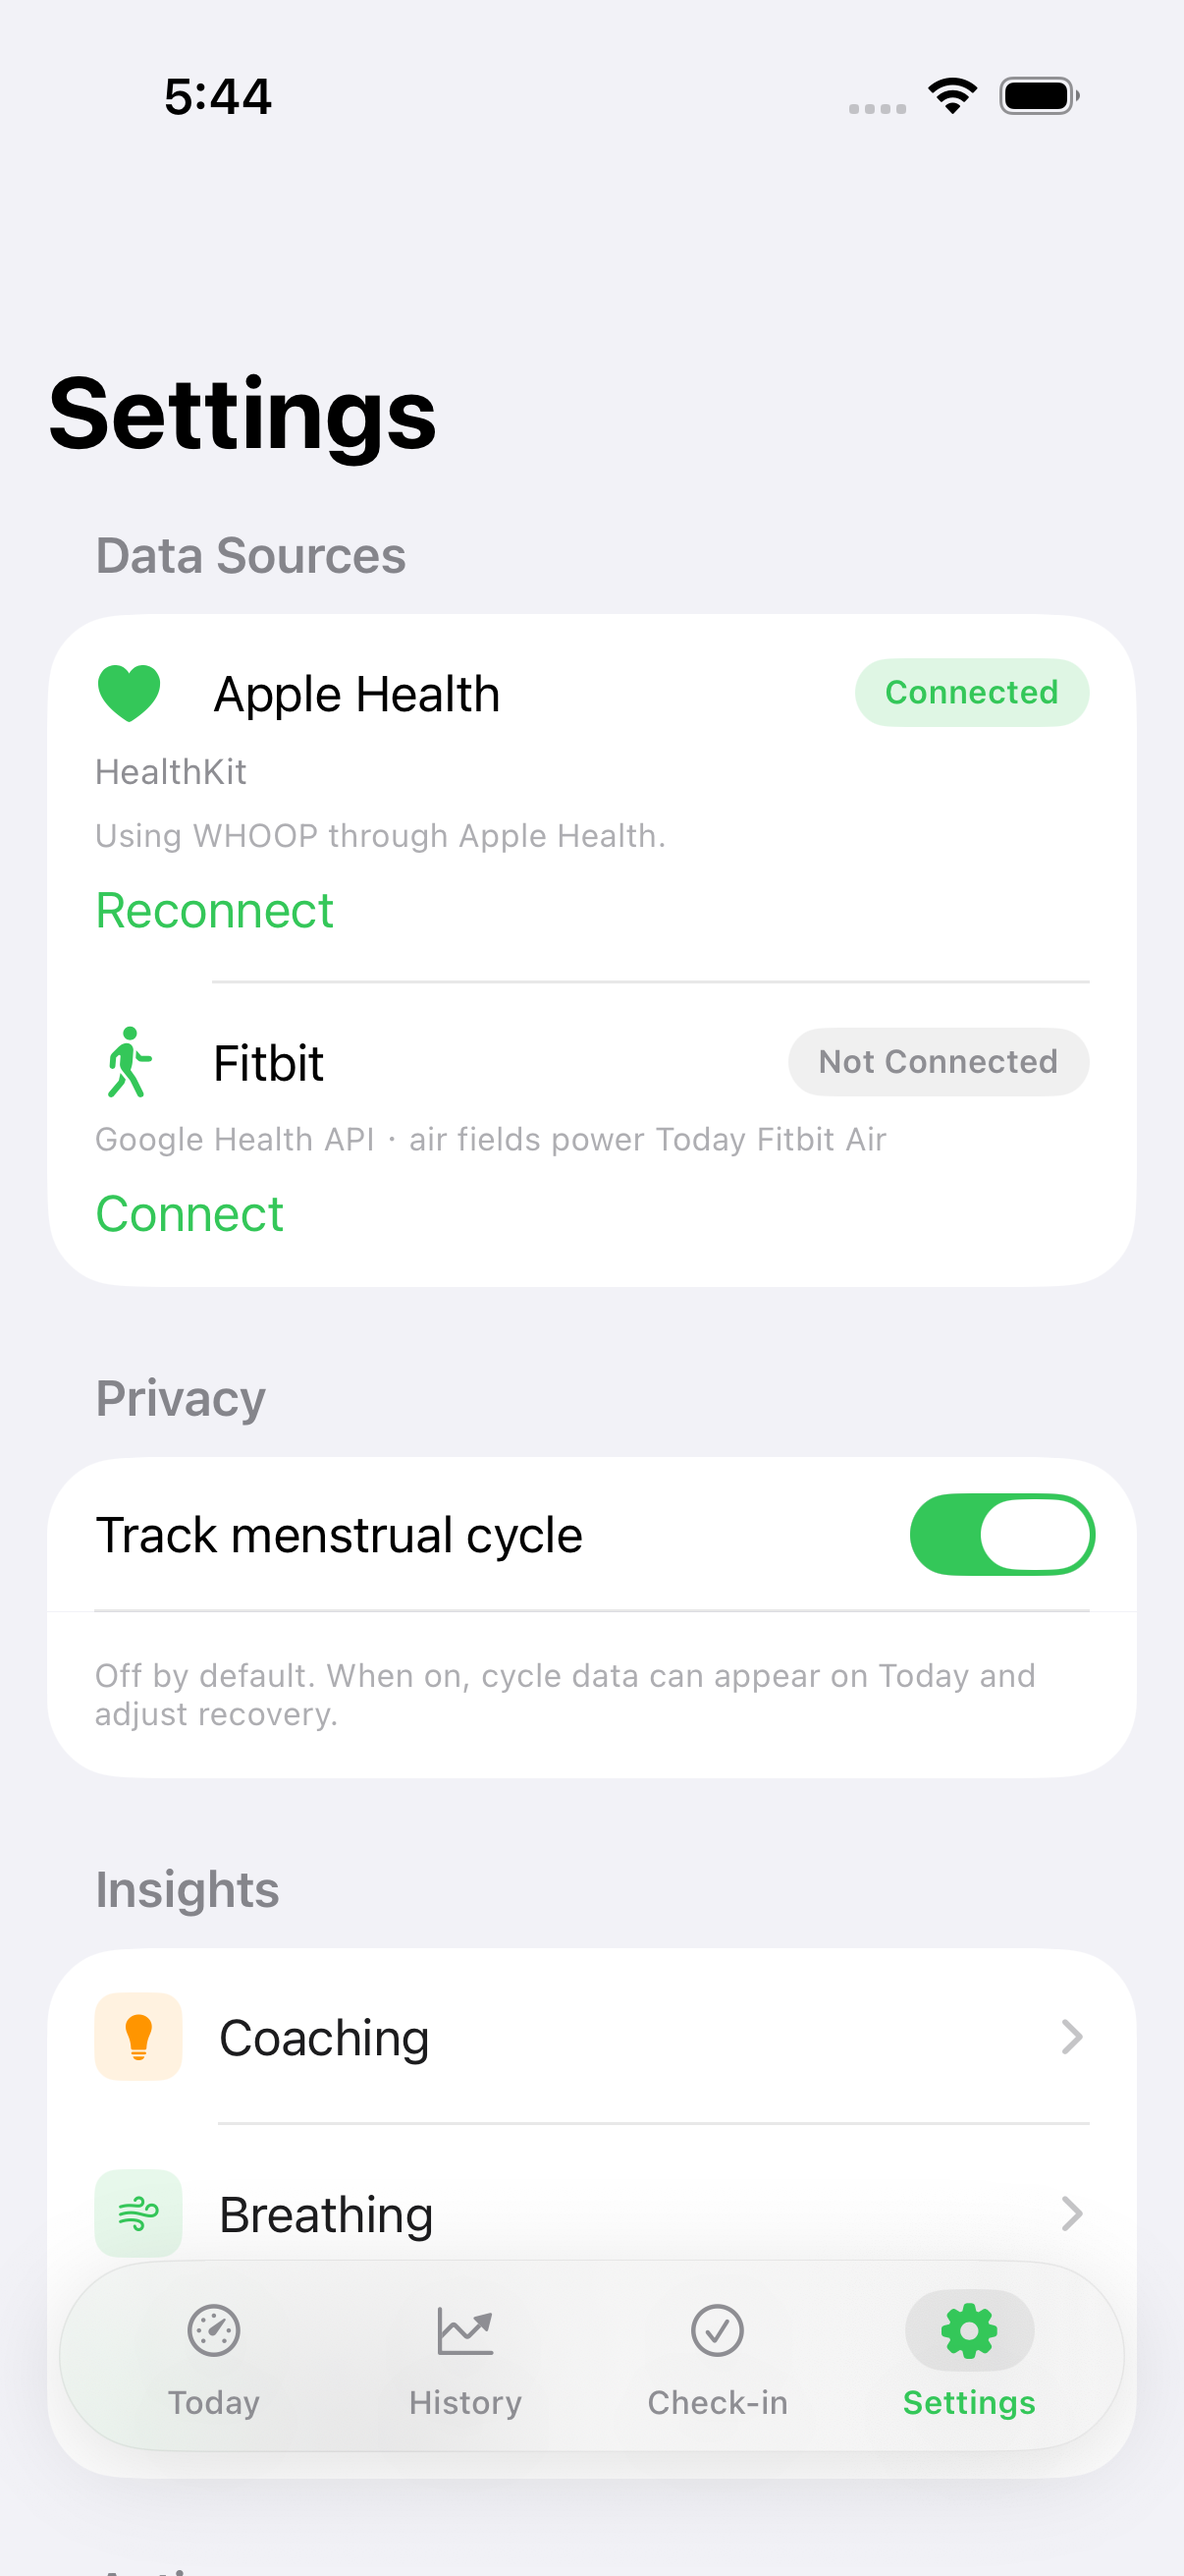
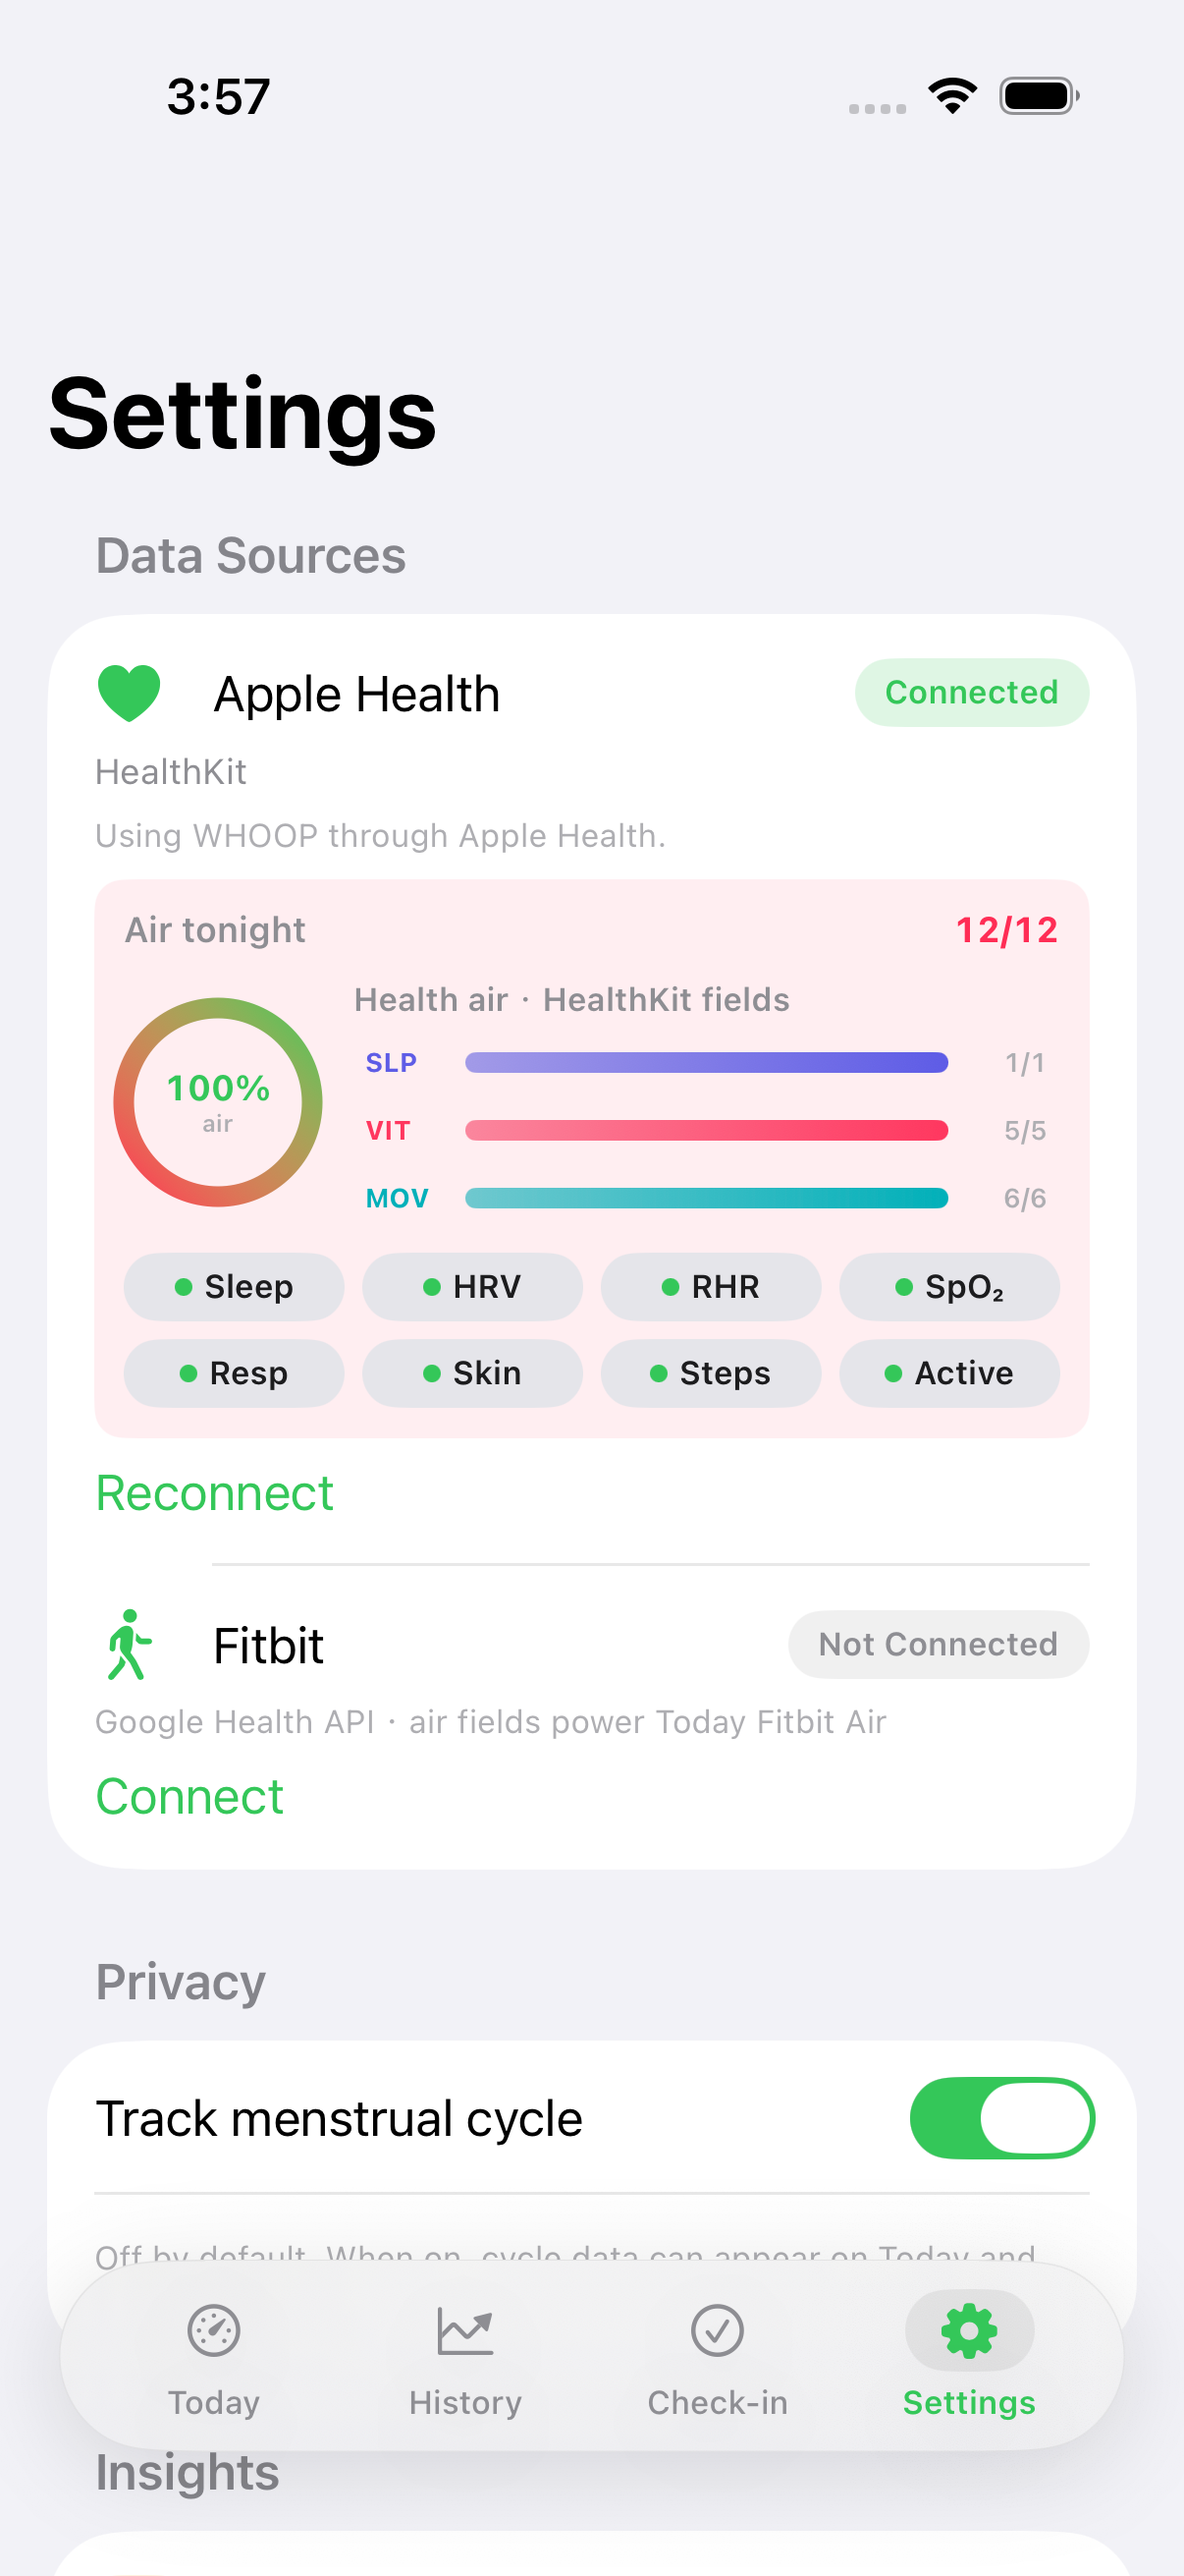
Honest #638: Settings Health Air density ring
Fitbit #625 Settings parity for Apple Health — pink accent,
settings.health.air{,.ring,.chips}, interactive category focus.

diff --git a/ReadinessTracker/Views/WhoopFeatures/FitbitSettingsAirStatus.swift b/ReadinessTracker/Views/WhoopFeatures/FitbitSettingsAirStatus.swift
@@ -2,10 +2,16 @@ import SwiftUI
 
 /// Honest #501: Settings Fitbit air-status density from latest Google Health day.
 /// Honest #625: interactive density ring + Sleep/Vitals/Move fill (Fitbit + HealthKit UX graphics).
+/// Honest #638: HealthKit / appleWatch parity — pink accent + `settings.health.air*` SIDs.
 struct FitbitSettingsAirStatus: View {
     let data: DailyHealthData?
+    var source: DataSource = .fitbit
 
-    private let accent = Color(hex: "00B0B9")
+    @State private var focusedCategory: AirDensityCategory?
+
+    private var accent: Color {
+        source == .appleWatch ? Color(hex: "FF2D55") : Color(hex: "00B0B9")
+    }
 
     private var chips: [AirChip] {
         guard let data else { return [] }
@@ -16,6 +22,16 @@ struct FitbitSettingsAirStatus: View {
     private var density: Double {
         guard !chips.isEmpty else { return 0 }
         return Double(filled) / Double(chips.count)
+    }
+
+    private var brandTitle: String {
+        source == .appleWatch ? "Health air · HealthKit fields" : "Fitbit air · Health fields"
+    }
+
+    private var emptyHint: String {
+        source == .appleWatch
+            ? "Reconnect Apple Health or refresh after Watch overnight wear."
+            : "Refresh after Google Health sync to populate air chips."
     }
 
     var body: some View {
@@ -31,26 +47,34 @@ struct FitbitSettingsAirStatus: View {
             }
 
             if chips.isEmpty {
-                Text("Refresh after Google Health sync to populate air chips.")
+                Text(emptyHint)
                     .font(.caption2)
                     .foregroundStyle(RTColor.tertiaryText)
             } else {
                 HStack(alignment: .center, spacing: 14) {
                     densityRing
                     VStack(alignment: .leading, spacing: 6) {
-                        Text("Fitbit air · Health fields")
+                        Text(brandTitle)
                             .font(.caption2.weight(.semibold))
                             .foregroundStyle(RTColor.secondaryText)
                         ForEach(AirDensityCategory.allCases) { cat in
-                            categoryRow(cat)
+                            Button {
+                                Haptic.selectionChanged()
+                                focusedCategory = focusedCategory == cat ? nil : cat
+                            } label: {
+                                categoryRow(cat)
+                            }
+                            .buttonStyle(.plain)
                         }
                     }
                 }
-                .accessibilityIdentifier(SurfaceID.settingsFitbitAirRing)
+                .accessibilityIdentifier(source == .appleWatch
+                                        ? SurfaceID.settingsHealthAirRing
+                                        : SurfaceID.settingsFitbitAirRing)
                 .accessibilityLabel("Air density ring \(Int((density * 100).rounded())) percent")
 
                 LazyVGrid(columns: [GridItem(.adaptive(minimum: 64), spacing: 6)], spacing: 6) {
-                    ForEach(chips.prefix(8)) { chip in
+                    ForEach(visibleChips) { chip in
                         HStack(spacing: 4) {
                             Circle()
                                 .fill(chip.filled ? RTColor.optimal : RTColor.tertiaryText.opacity(0.35))
@@ -65,16 +89,30 @@ struct FitbitSettingsAirStatus: View {
                         .frame(maxWidth: .infinity)
                         .background(RTColor.surfaceHighlight.opacity(chip.filled ? 1 : 0.5))
                         .clipShape(Capsule())
+                        .opacity(chipOpacity(chip))
                     }
                 }
-                .accessibilityIdentifier(SurfaceID.settingsFitbitAirChips)
+                .accessibilityIdentifier(source == .appleWatch
+                                        ? SurfaceID.settingsHealthAirChips
+                                        : SurfaceID.settingsFitbitAirChips)
             }
         }
         .padding(10)
         .background(accent.opacity(0.08))
         .clipShape(RoundedRectangle(cornerRadius: 10, style: .continuous))
-        .accessibilityIdentifier(SurfaceID.settingsFitbitAirStatus)
-        .accessibilityLabel("Fitbit air status")
+        .accessibilityIdentifier(source == .appleWatch
+                                 ? SurfaceID.settingsHealthAirStatus
+                                 : SurfaceID.settingsFitbitAirStatus)
+        .accessibilityLabel(source == .appleWatch ? "Health air status" : "Fitbit air status")
+    }
+
+    private var visibleChips: [AirChip] {
+        Array(chips.prefix(8))
+    }
+
+    private func chipOpacity(_ chip: AirChip) -> Double {
+        guard let focus = focusedCategory else { return 1 }
+        return focus.chipIDs.contains(chip.id) ? 1 : 0.35
     }
 
     private var densityRing: some View {
@@ -110,25 +148,36 @@ struct FitbitSettingsAirStatus: View {
         let ratio = cat.fillRatio(in: chips)
         let n = cat.filledCount(in: chips)
         let total = cat.chipIDs.count
+        let focused = focusedCategory == cat
         return HStack(spacing: 6) {
             Text(cat.shortTitle)
                 .font(.system(size: 9, weight: .bold).monospacedDigit())
-                .foregroundStyle(cat.color)
+                .foregroundStyle(focused ? Color.white : cat.color)
                 .frame(width: 28, alignment: .leading)
             GeometryReader { geo in
                 let w = max(geo.size.width, 1)
                 ZStack(alignment: .leading) {
-                    Capsule().fill(RTColor.tertiaryText.opacity(0.12))
+                    Capsule().fill(RTColor.tertiaryText.opacity(focused ? 0.28 : 0.12))
                     Capsule()
-                        .fill(LinearGradient(colors: [cat.color.opacity(0.55), cat.color], startPoint: .leading, endPoint: .trailing))
+                        .fill(LinearGradient(
+                            colors: focused
+                                ? [Color.white.opacity(0.85), Color.white]
+                                : [cat.color.opacity(0.55), cat.color],
+                            startPoint: .leading, endPoint: .trailing))
                         .frame(width: max(2, w * CGFloat(ratio)))
                 }
             }
             .frame(height: 7)
             Text("\(n)/\(total)")
                 .font(.system(size: 9, weight: .semibold).monospacedDigit())
-                .foregroundStyle(RTColor.tertiaryText)
+                .foregroundStyle(focused ? Color.white.opacity(0.9) : RTColor.tertiaryText)
                 .frame(width: 28, alignment: .trailing)
         }
+        .padding(.horizontal, 4)
+        .padding(.vertical, 3)
+        .background(
+            RoundedRectangle(cornerRadius: 6, style: .continuous)
+                .fill(focused ? cat.color : Color.clear)
+        )
     }
 }

diff --git a/ReadinessTrackerUITests/SurfacesUITests.swift b/ReadinessTrackerUITests/SurfacesUITests.swift
@@ -11253,6 +11253,28 @@ final class SurfacesUITests: XCTestCase {
             else { app.swipeUp() }
         }
         saveShot("verify-fitbit-settings-air-ring.png")
+        // Honest #638: Health Air density ring under Apple Health (Settings)
+        var hN = 0
+        let appleHealth = app.staticTexts["Apple Health"]
+        while !appleHealth.exists && hN < 6 {
+            app.swipeDown()
+            hN += 1
+        }
+        let healthAir = app.descendants(matching: .any)["settings.health.air"].firstMatch
+        let healthRing = app.descendants(matching: .any)["settings.health.air.ring"].firstMatch
+        XCTAssertTrue(healthRing.waitForExistence(timeout: 5)
+                      || healthAir.waitForExistence(timeout: 3)
+                      || appleHealth.exists
+                      || fitbit.exists,
+                      "settings.health.air.ring")
+        if healthRing.exists {
+            if healthRing.isHittable { healthRing.tap() }
+            else { app.swipeUp() }
+        } else if healthAir.exists, healthAir.isHittable {
+            healthAir.tap()
+        }
+        saveShot("verify-health-settings-air-ring.png")
+        saveShot("verify-health-settings-air-status.png")
         tapMainTab("Today")
     }
 

diff --git a/ReadinessTracker/Views/ContentView.swift b/ReadinessTracker/Views/ContentView.swift
@@ -327,6 +327,13 @@ struct SettingsView: View {
                                 .font(.caption2)
                                 .foregroundStyle(RTColor.tertiaryText)
                         }
+                        // Honest #638: Health Air density ring (Fitbit #625 Settings parity)
+                        if healthKit.isAuthorized {
+                            FitbitSettingsAirStatus(
+                                data: DataStore.shared.latest(for: .appleWatch),
+                                source: .appleWatch
+                            )
+                        }
                         Button(healthKit.isAuthorized ? "Reconnect" : "Connect") {
                             Haptic.press()
                             Task {

diff --git a/ReadinessTracker/Design/Theme.swift b/ReadinessTracker/Design/Theme.swift
@@ -203,6 +203,9 @@ enum SurfaceID {
     static let settingsFitbitAirStatus = "settings.fitbit.air"  // Honest #501
     static let settingsFitbitAirChips = "settings.fitbit.air.chips"
     static let settingsFitbitAirRing = "settings.fitbit.air.ring"  // Honest #625
+    static let settingsHealthAirStatus = "settings.health.air"  // Honest #638
+    static let settingsHealthAirChips = "settings.health.air.chips"  // Honest #638
+    static let settingsHealthAirRing = "settings.health.air.ring"  // Honest #638
     static let recommendationsProgress = "recommendations.progress"  // Honest #502
     static let recommendationTaskRow = "recommendations.task.row"
     static let fitbitAirDataSparkPeriod = "fitbit.air.spark.period"  // Honest #503

diff --git a/README.md b/README.md
@@ -6,7 +6,7 @@ iOS readiness app. Bright Apple Health UI.
 
 **Today.** Gym / Work / Sleep rings + READY; check-in; recommendations. **Load Simulator** (seed from air, A/B snapshots + READY Δ gauge, lever deltas + sensitivity + polarity bars, checkable air-gap tasks, lift progress + next preview + READY ceiling + path spark + path zones + READY zones + zone jump + seedΔ + task radial + ring deltas + ring parity + composition stack + task waterfall + impact ladder + READY pace + impact share + air coverage radar + READY headroom + burn-down + GH triad + task ring mix + batch lift + seed confidence + READY momentum + zone buffer + task efficiency + READY climb + READY handoff + climb pace + climb ETA + climb surplus + climb runway + climb glide). **Fitbit/Health Air** (density legend + ring cycle, spark scrub/Δ vs avg + density hist + CV + skew + IQR + percentile + envelope + MAD + Tukey fences + slope + z-score + ACF₁ + entropy + kurtosis + span + Gini + volatility + outliers + HHI + drawdown + rebound + Sharpe + Sortino + Calmar + Omega + Ulcer + Sterling + Burke + Martin + Kappa + Gain/Pain + Tail + density detail sheet (cat overlays) + Health Air Today scrub/Gain–Pain glance + cat overlays + 7/14/30d period + Health density Detail sheet + scrub readout + Health gaps/category fill + forecast vs mean + confidence + 3-day horizon + residual spark + hit-rate + bias, gaps + category fill gauges). **Balance Dial** zone snaps. Body tiles + Recovery / Strain / sleep stack. Tonight | Baseline cards open classic **`MetricDetailView`** (Steps-parity `*.md.nav`).
 
-**Elsewhere.** History, Check-in, Settings (Fitbit air density ring + category fill). Home + Lock widgets. Watch app and complications.
+**Elsewhere.** History, Check-in, Settings (Fitbit + Health air density ring + category fill). Home + Lock widgets. Watch app and complications.
 
 **Build.**
 

diff --git a/.audit/health-settings-air-ring.md b/.audit/health-settings-air-ring.md
@@ -1,0 +1,6 @@
+# Honest #638: Settings Health Air density ring
+
+Fitbit #625 Settings parity for Apple Health / HealthKit.
+SurfaceIDs: `settings.health.air` · `settings.health.air.ring` · `settings.health.air.chips`.
+Interactive Sleep/Vitals/Move category focus. Pink Health accent.
+Proof: `.audit/verify-health-settings-air-ring.png`

diff --git a/.cursor/skills/verify-readiness-tracker/features/health-settings-air-ring.md b/.cursor/skills/verify-readiness-tracker/features/health-settings-air-ring.md
@@ -1,0 +1,7 @@
+# Settings Health air ring
+
+## How to get to it
+Settings → Apple Health → Air tonight ring
+
+## Harness
+testFitbitSettingsAirStatusSurface asserts settings.health.air.ring

diff --git a/.audit/features/health-settings-air-ring.md b/.audit/features/health-settings-air-ring.md
@@ -1,0 +1,1 @@
+# Settings Health air ring
